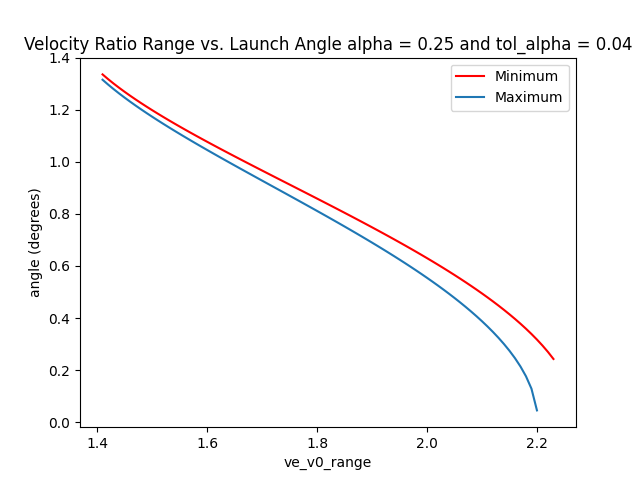
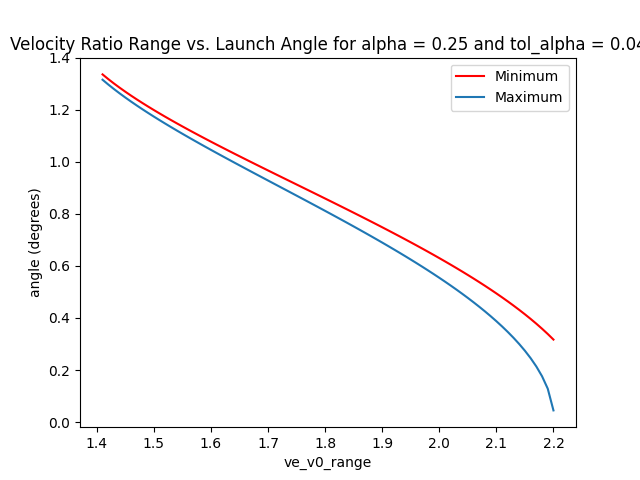
cleaned up files, added comments

diff --git a/source/rocket.py b/source/rocket.py
@@ -1,7 +1,4 @@
-from unittest import result
-import math
-
-import numpy
+import numpy as np
 
 def launch_angle_range(ve_v0, alpha, tol_alpha):
     """Description of function.
@@ -25,22 +22,25 @@ def launch_angle_range(ve_v0, alpha, tol_alpha):
     alpha_min = alpha*(1 - tol_alpha)
     alpha_max = alpha*(1 + tol_alpha)
 
+    #calculate values under the RHS root
     under_root_min = (1-(alpha_min/(1+alpha_min))*(ve_v0**2)) 
     under_root_max = (1-(alpha_max/(1+alpha_max))*(ve_v0**2))
 
+    #Check for negative values under root and exit program if found
     assert under_root_max > 0 and under_root_min > 0, "Complex value found, ensure values under the root are positive"
 
+    #Compute value on RHS of equation in full using numpy.sqrt
+    right_side_min = (1+alpha_min)*np.sqrt(under_root_min)
+    right_side_max = (1+alpha_max)*np.sqrt(under_root_max)
     
-    #if under_root_max < 0 or under_root_min < 0:
-    #    print(under_root_max)
-     #   print(under_root_min)
-      #  return "Error, complex value detected, ensure that value under root is positive"
-
-    right_side_min = (1+alpha_min)*numpy.sqrt(under_root_min)
-    right_side_max = (1+alpha_max)*numpy.sqrt(under_root_max)
+    #Enforce parameters of launch constraints and exit gracefully otherwise
+    assert right_side_min <= 1 and right_side_min > 0, 'Values passed to arcsin function must be less than 1 and greater than 0 for acceptable launch constraints' 
+    assert right_side_max <= 1 and right_side_max > 0, 'Values passed to arcsin function must be less than 1 and greater than 0 for acceptable launch constraints' 
     
-    phi_range = [arcsin(right_side_min),arcsin(right_side_max)]
+    #Calls arcsin function to calculate angle of launch and uses min and max alpha to place min and max angle into a numpy array of length 2
+    phi_range = np.array([arcsin(right_side_min),arcsin(right_side_max)])
     
+    #Return array to caller
     return phi_range
 
 def arcsin(x):
@@ -54,32 +54,36 @@ def arcsin(x):
     float
         The resultant value of the arcsin function.
     """
-    #Check that i is greater than or equal to one
+    #Initialize loop variables
     result = 0
     sign = False
     eps_a = 1.0
-    eps_s = 1.e-16
+    eps_s = 1.e-5
     n = 1
     fact_n = 1
     
+    #converts x to positive for purposes of the loop algorithm
     if x < 0:
         sign = True
+        x =- x
 
+    #loop that ends once the stopping criterion of five digits is met
     while eps_a > eps_s:
         numerator = (2*x)**(2*n)
         denominator = n**2*(factorial_2n(n))/(fact_n**2)
         term = numerator/denominator
         result += term
-        n+=1
+        n += 1
         fact_n *= n
-        eps_a=abs(term/result)
+        eps_a = abs(term/result)
     result = 0.5*result
-    result = numpy.sqrt(result)
+    result = np.sqrt(result)
 
+    #converts x back to negative if it was negative in the first place
     if sign == True:
         result = -result
 
-
+    #return result to caller
     return result
 
 def factorial_2n(n):
@@ -93,9 +97,9 @@ def factorial_2n(n):
     int
         The resultant value of (2n)!
     """
-    n*=2 #initialize n to be equal to 2n
+    n *= 2 #initialize n to be equal to 2n
     result = n #make initial value equal to n
-    while n>1: #multiply initial n by (n-1) terms repeatably until n reaches 1 to get our result
-        result*=(n-1)
-        n-=1
+    while n > 1: #multiply initial n by (n-1) terms repeatably until n reaches 1 to get our result
+        result *= (n-1)
+        n -= 1
     return result

diff --git a/source/driver.py b/source/driver.py
@@ -1,12 +1,23 @@
 """Driver script for Assignment #1"""
-#F22 GOPH 419 Brandon Karchewski
-#Zachary Gilchrist 10123740
+
 import matplotlib.pyplot as plt
+import numpy as np
 
 import rocket
 
 def main():
     """Main function"""
+    ###########
+    #Question 2
+    ###########
+
+    print('Computed value of min and max launch angles respectively:')
+    print(rocket.launch_angle_range(2.0,0.25,0.02))
+    print('\nTrue value of min and max laucnh angles computed using numpy:')
+
+    ###########
+    #Question 3
+    ###########
     
     #initialize arrays for first figure
     min_angles_q3 = []
@@ -20,7 +31,21 @@ def main():
         min_angles_q3.append(rocket.launch_angle_range(2.0,i,0.04)[0])
         max_angles_q3.append(rocket.launch_angle_range(2.0,i,0.04)[1])
         i+=0.001
-
+    
+    #plot of alpha_range vs angle
+    plt.figure()
+    plt.plot(alpha_range,min_angles_q3,'r',label = 'Minimum')
+    plt.plot(alpha_range,max_angles_q3, label = 'Maximum')
+    plt.xlabel('alpha')
+    plt.ylabel('angle (degrees)')
+    plt.title('Alpha Value vs. Launch Angle for ve_v0 = 2.0 and tol_alpha = 0.04')
+    plt.legend()
+    plt.savefig('alpha_range.png')
+    
+    ############
+    #Question #4
+    ############
+    
     #initialize arrays for second figure
     min_angles_q4 = []
     max_angles_q4= []
@@ -35,26 +60,7 @@ def main():
         max_angles_q4.append(rocket.launch_angle_range(j,0.25,0.04)[1])
         j+=0.01 
 
-
-    #print(alpha_range)
-    #print(min_angles_q3)
-    #print(max_angles_q3)
-    #print(min_angles_q4)
-    #print(max_angles_q4)
-
-    #plot of alpha_range vs angle
-
-    plt.figure()
-    plt.plot(alpha_range,min_angles_q3,'r',label = 'Minimum')
-    plt.plot(alpha_range,max_angles_q3, label = 'Maximum')
-    plt.xlabel('alpha')
-    plt.ylabel('angle (degrees)')
-    plt.title('Alpha Value vs. Launch Angle for ve_v0 = 2.0 and tol_alpha = 0.04')
-    plt.legend()
-    plt.savefig('alpha_range.png')
-
     #plot of velocity ratio range vs angle
-
     plt.figure()
     plt.plot(ve_v0_range,min_angles_q4, 'r',label = 'Minimum')
     plt.plot(ve_v0_range,max_angles_q4, label = 'Maximum')
